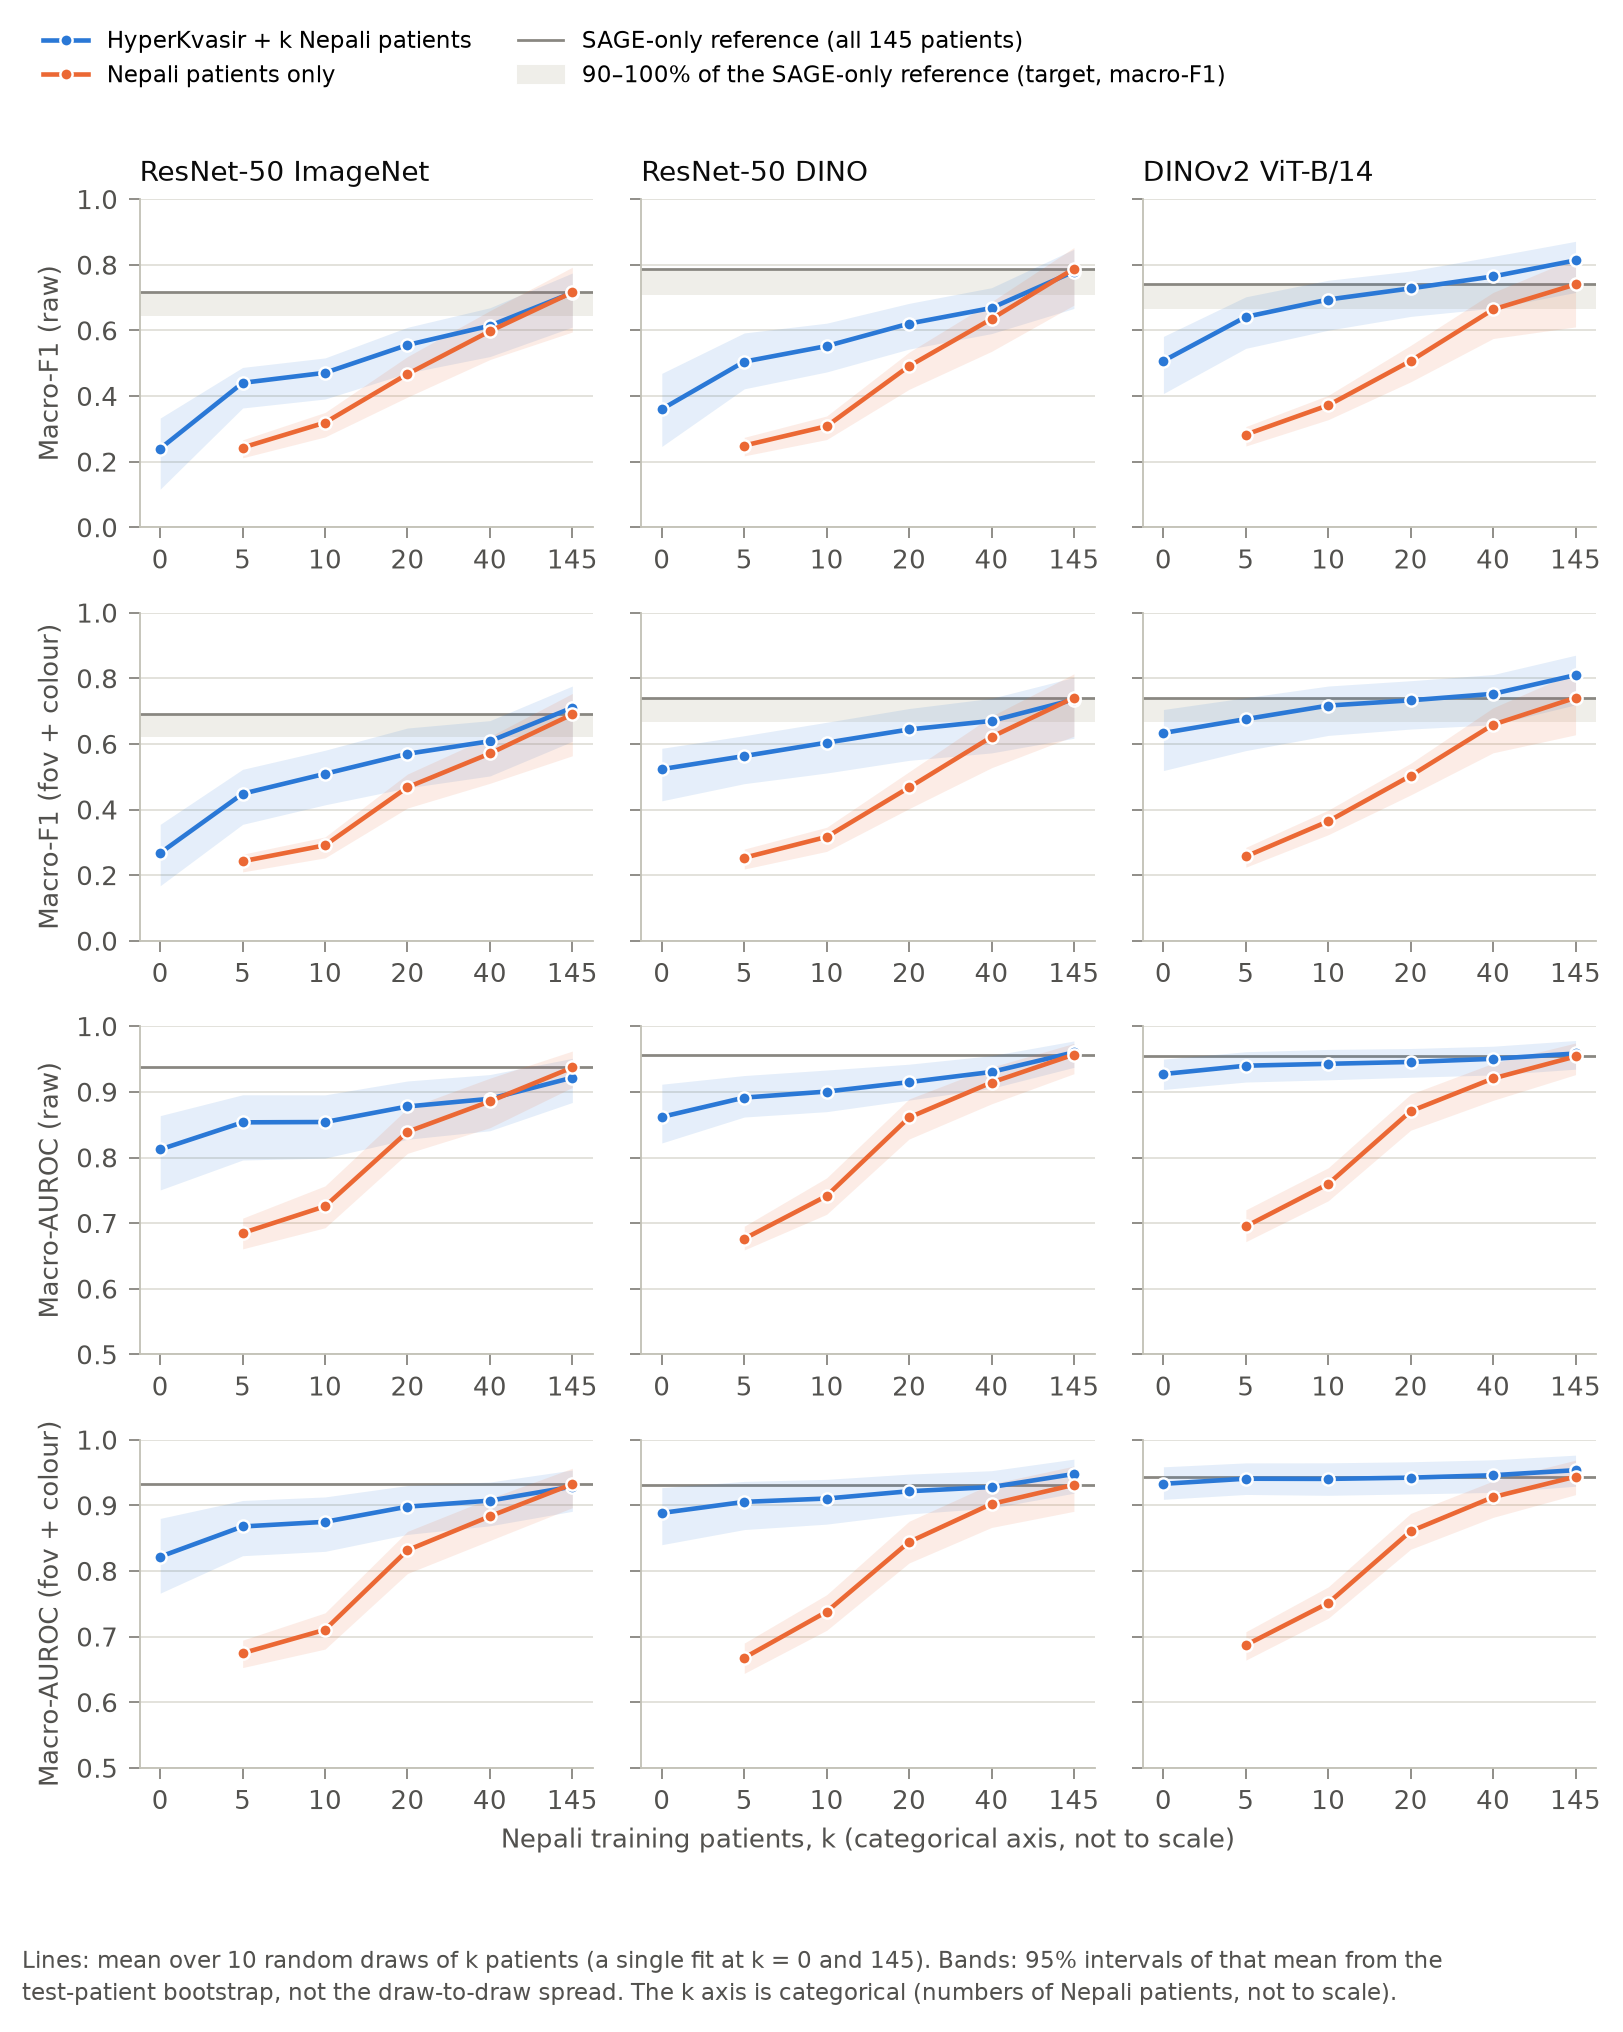
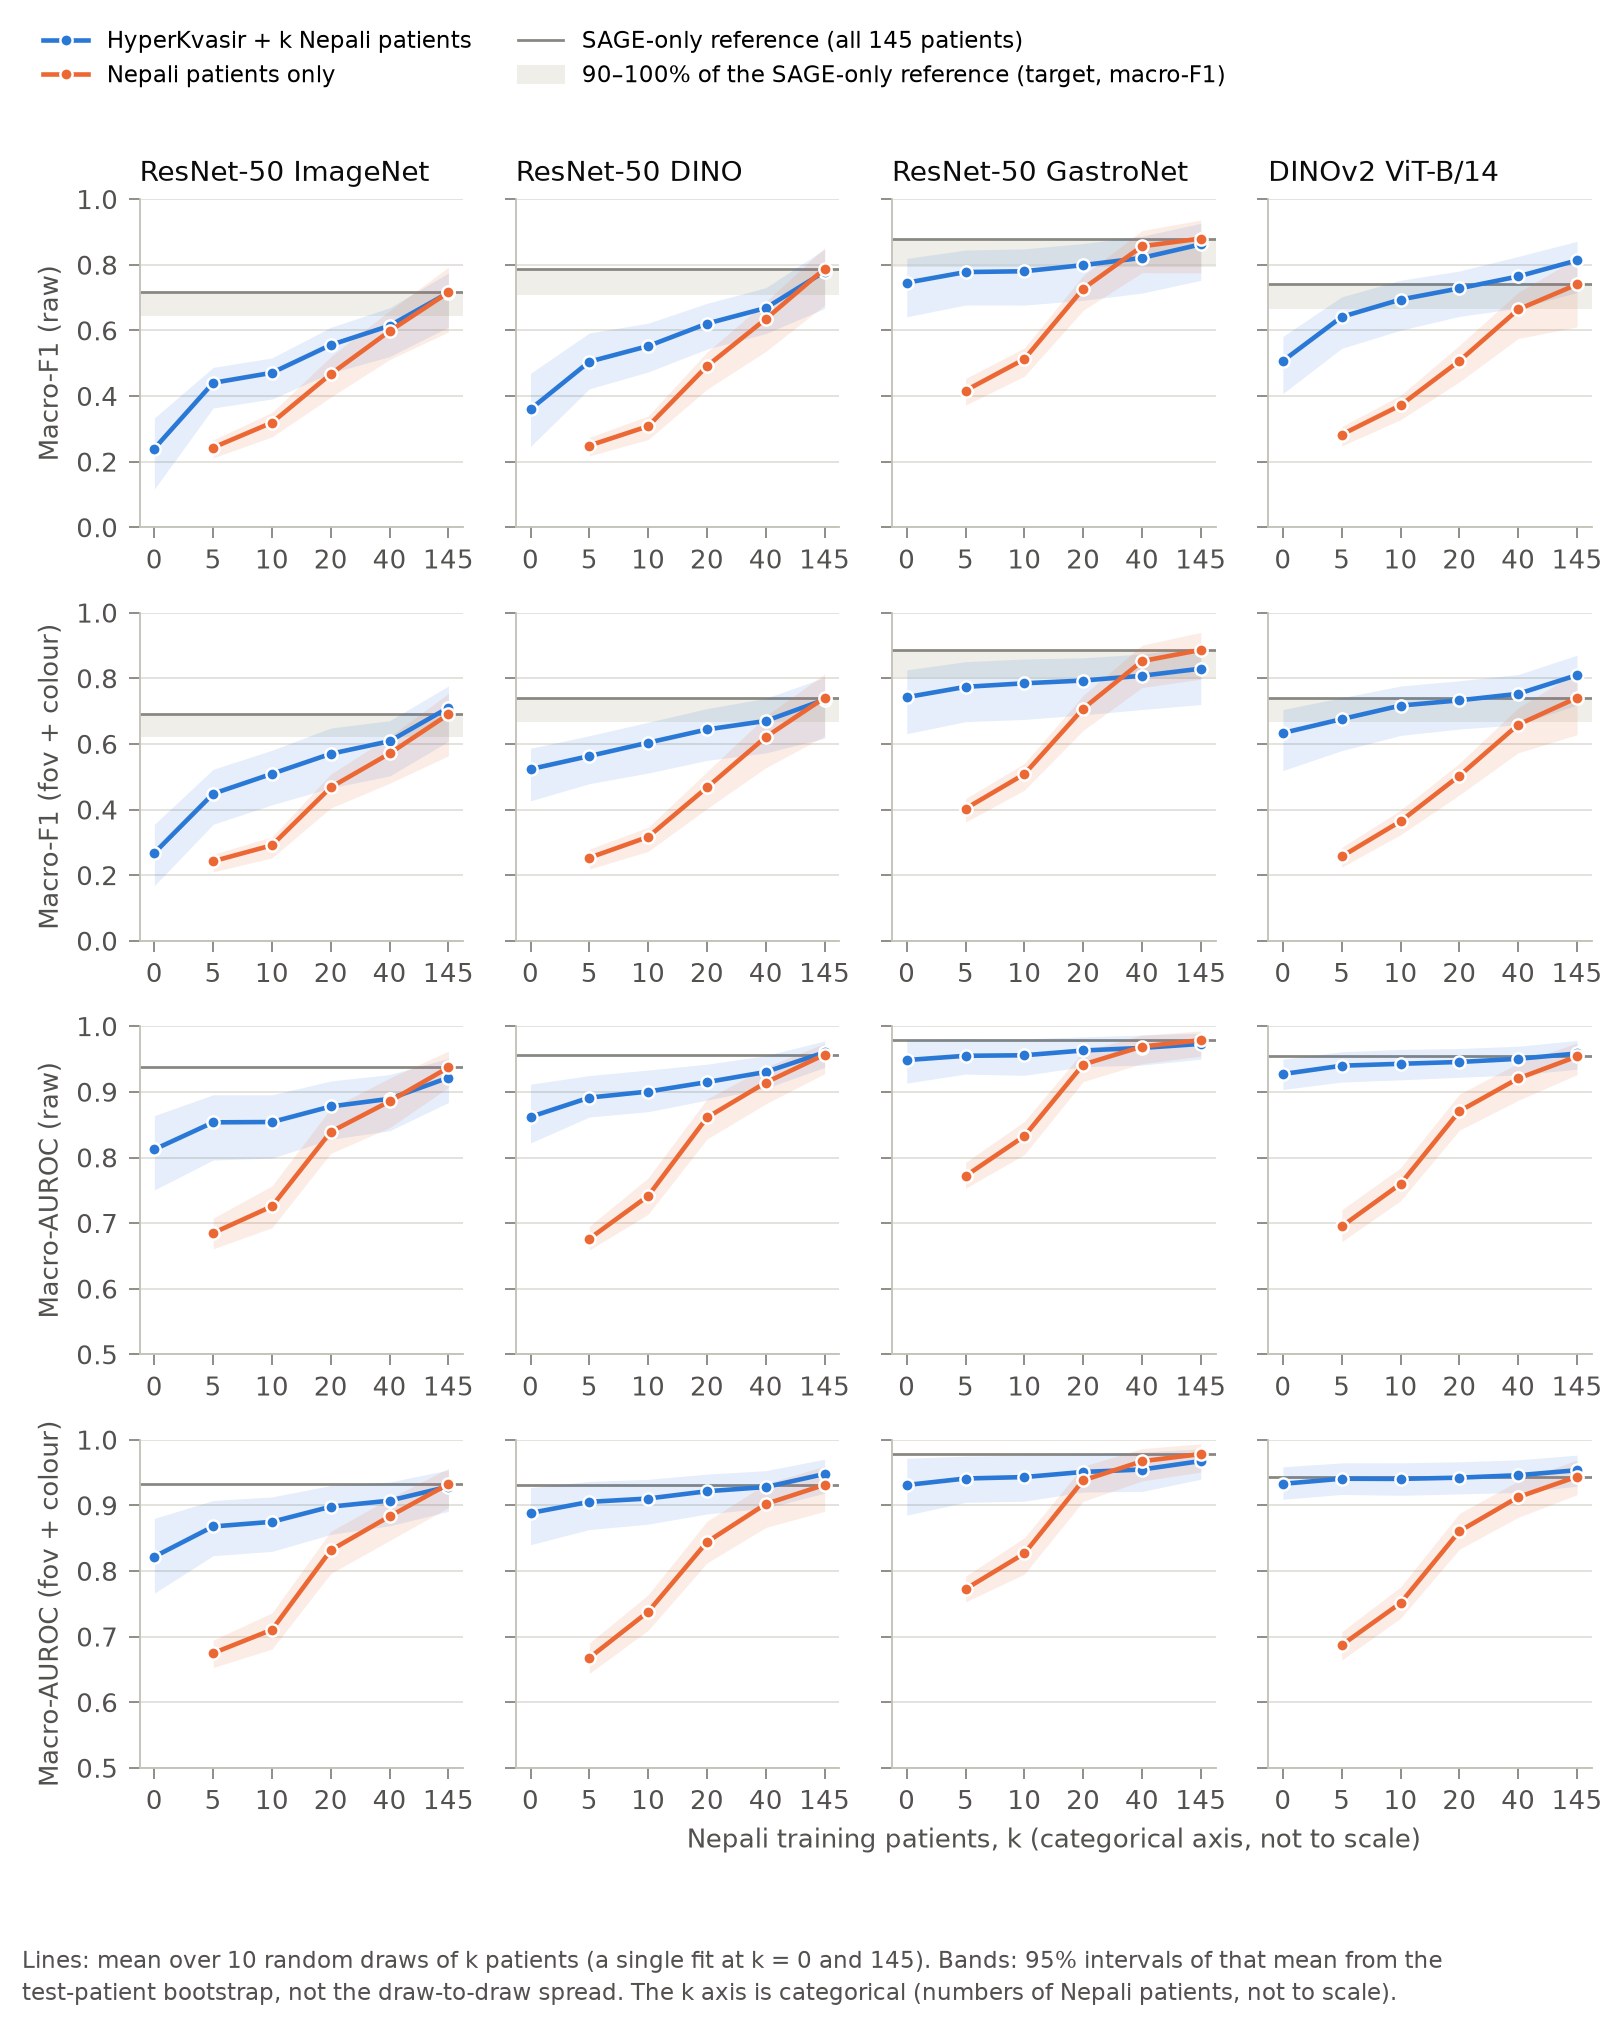
Add the in-domain backbone results

diff --git a/scripts/11_figures.py b/scripts/11_figures.py
@@ -41,7 +41,7 @@ from sage_shift.labelspace import MEANING_GROUP, SIX_CLASSES  # noqa: E402
 from sage_shift.outdir import check_out_dir  # noqa: E402
 
 ROOT = Path(__file__).resolve().parents[1]
-SERIES = ["#2a78d6", "#eb6834", "#1baf7a"]  # categorical slots 1-3 (validated all-pairs)
+SERIES = ["#2a78d6", "#eb6834", "#1baf7a", "#f2a600"]  # categorical slots 1-4 (slots 1-3 validated all-pairs; 1-4 adjacent)
 BLUES = ["#fcfcfb", "#cde2fb", "#9ec5f4", "#6da7ec", "#3987e5", "#256abf", "#184f95", "#0d366b"]
 INK, INK_2, MUTED, GRID, AXIS = "#0b0b0b", "#52514e", "#898781", "#e1e0d9", "#c3c2b7"
 BAND = "#efeee9"  # target zone in F3 and diagram boxes, one step off the surface
@@ -50,6 +50,7 @@ SHORT = {"esophagitis": "Esophagitis", "fundus-retroflexion": "Fundus (retrofl.)
 BACKBONE_NAMES = {"resnet50_imagenet": "ResNet-50 ImageNet", "resnet50_dino_imagenet": "ResNet-50 DINO",
                   "resnet50_gastronet_dino": "ResNet-50 GastroNet", "dinov2_vitb14": "DINOv2 ViT-B/14"}
 REFERENCE = "SAGE-only reference"  # the SAGE-trained probe (files and columns call it the ceiling)
+SLOT = {"resnet50_imagenet": 0, "resnet50_dino_imagenet": 1, "dinov2_vitb14": 2, "resnet50_gastronet_dino": 3}  # colour follows the backbone
 FOV_TEST_TIME = "Exploratory: test-time field crop of SAGE"
 INPUTS = {"raw": "raw frame", "masked": "masked\n(border blacked out,\nnot cropped)", "fov": "test-time\nfield crop"}
 AUROC_COLUMNS = ["backbone", "variant", "regime", "k", "auroc_mean", "ci_low", "ci_high", "draws"]
@@ -180,17 +181,18 @@ def f2_class_gaps(table: pd.DataFrame, test: pd.DataFrame, out_dir: Path) -> Non
     gaps = table[(table["section"] == "meaning_groups") & (table["row"] == "raw") & table["metric"].str.startswith("f1_gap_")]
     order = [c for c in SIX_CLASSES if MEANING_GROUP[c] == "shifted"] + [c for c in SIX_CLASSES if MEANING_GROUP[c] == "matched"]
     n_images, n_patients = test["class"].value_counts(), test.groupby("class")["patient_group"].nunique()
-    backbones = [b for b in BACKBONE_NAMES if b in set(gaps["model"])]
+    backbones = sorted((b for b in BACKBONE_NAMES if b in set(gaps["model"])), key=SLOT.get)  # drawn in colour-slot order
     fig, ax = plt.subplots(figsize=(6.4, 4.6))
     offsets = np.linspace(-0.22, 0.22, len(backbones))
-    for b, (backbone, offset) in enumerate(zip(backbones, offsets)):
+    for backbone, offset in zip(backbones, offsets):
+        colour = SERIES[SLOT[backbone]]
         part = gaps[gaps["model"] == backbone].set_index("metric")
         ys = np.arange(len(order)) + offset
         est = [part.loc[f"f1_gap_{c}", "estimate"] for c in order]
         low = [part.loc[f"f1_gap_{c}", "ci_low"] for c in order]
         high = [part.loc[f"f1_gap_{c}", "ci_high"] for c in order]
-        ax.hlines(ys, low, high, color=SERIES[b], linewidth=1.4)
-        ax.plot(est, ys, "o", color=SERIES[b], markersize=5, markeredgecolor="white", markeredgewidth=1.0,
+        ax.hlines(ys, low, high, color=colour, linewidth=1.4)
+        ax.plot(est, ys, "o", color=colour, markersize=5, markeredgecolor="white", markeredgewidth=1.0,
                 label=BACKBONE_NAMES[backbone])
     ax.axvline(0, color=AXIS, linewidth=0.8)
     n_shifted = sum(MEANING_GROUP[c] == "shifted" for c in order)
@@ -202,7 +204,7 @@ def f2_class_gaps(table: pd.DataFrame, test: pd.DataFrame, out_dir: Path) -> Non
     ax.grid(axis="x")
     ax.set_axisbelow(True)
     ax.set_xlabel(f"{REFERENCE} − transfer (F1)")
-    ax.legend(loc="lower left", bbox_to_anchor=(0.0, 1.01), ncol=len(backbones), fontsize=7.5, handletextpad=0.3,
+    ax.legend(loc="lower left", bbox_to_anchor=(0.0, 1.01), ncol=len(backbones) if len(backbones) <= 3 else 2, fontsize=7.5, handletextpad=0.3,
               borderaxespad=0)
     fig.suptitle("Descriptive: per-class transfer gap on raw frames, by meaning group", x=0.01, ha="left",
                  fontsize=9.5, color=INK)

diff --git a/README.md b/README.md
@@ -46,27 +46,29 @@ All scores are on the SAGE six-class test set: 158 images from 62 patients. Inte
 </p>
 <p align="center"><em>Figure 1. Re-trained adjusted models (three seeds) under geometry controls. Left: SAGE test inputs. Every input with a margin around the field crosses the 80% collapse threshold, and the field crops do not. Right: HyperKvasir fold-1 upper-GI frames, as originally framed and placed into SAGE's layout.</em></p>
 
-**3. A fair gap remains for frozen features, and it is smaller with foundation models.** Macro-F1:
+**3. A fair gap remains for frozen features; it is smallest with in-domain pretraining.** Macro-F1:
 
 | Backbone (frozen) | Transfer: HyperKvasir → SAGE | SAGE-only reference | Gap, raw frames | Gap, field crop |
 |---|---:|---:|---:|---:|
 | ResNet-50 (ImageNet) | 0.240 | 0.716 | 0.476 [0.311, 0.641] | 0.397 [0.241, 0.520] |
 | ResNet-50 (DINO) | 0.360 | 0.788 | 0.428 [0.247, 0.554] | 0.281 [0.160, 0.378] |
 | DINOv2 ViT-B/14 | 0.507 | 0.740 | 0.233 [0.092, 0.353] | 0.118 [0.018, 0.208] |
+| ResNet-50 (DINO, GastroNet-5M endoscopy images) | 0.746 | 0.880 | 0.135 [0.045, 0.212] | 0.148 [0.043, 0.241] |
 
-<sub>For context: the best constant predictor scores 0.088. HyperKvasir in-domain macro-F1 is 0.92–0.93, but that figure is optimistic, because HyperKvasir has no patient identifiers and its split is image-level.</sub>
+<sub>For context: the best constant predictor scores 0.088. HyperKvasir in-domain macro-F1 is 0.92–0.95, but that figure is optimistic, because HyperKvasir has no patient identifiers and its split is image-level.</sub>
 
-- **Field crop.** It reduces the gap more than colour normalisation does, for every backbone (estimated reduction 0.08–0.15).
+- **Field crop.** For the three general-purpose backbones it reduces the gap more than colour normalisation does (estimated reduction 0.08–0.15). For the in-domain backbone neither intervention changes the gap (−0.013 and −0.008), and its predictions are not polyp-heavy even on raw frames.
 - **Colour.** Per-image colour normalisation shows no detectable change, and neither does a dataset-level colour map.
-- **Class priors.** EM prior correction widens the gap. Even the true SAGE class priors do not materially improve macro-F1 (−0.057 to +0.003).
+- **Class priors.** EM prior correction widens the gap. Even the true SAGE class priors do not materially improve macro-F1 (−0.057 to +0.010).
 
 **4. A few Nepali patients go a long way.**
 - With HyperKvasir data, a DINOv2 probe reaches 90% of the SAGE-only reference with 10–20 Nepali patients (5–10 on cropped, colour-normalised frames).
 - At five patients it leads a Nepali-only probe by +0.36 [0.28, 0.42] (exploratory interval).
-- Most of that gain is an operating-point correction: refitting only the six class intercepts recovers 65–132% of it (exploratory).
+- For the general-purpose backbones most of that gain is an operating-point correction: refitting only the six class intercepts recovers 65–132% of it (exploratory).
+- With in-domain GastroNet-5M features, HyperKvasir data alone give 0.746 on SAGE, and 20 Nepali patients reach 90% of that backbone's higher SAGE-only reference (0.880).
 
 <p align="center">
-  <img src="figures/f3_label_efficiency.png" width="640" alt="Macro-F1 and macro-AUROC against the number of Nepali training patients, with and without HyperKvasir, for three backbones">
+  <img src="figures/f3_label_efficiency.png" width="640" alt="Macro-F1 and macro-AUROC against the number of Nepali training patients, with and without HyperKvasir, for four backbones">
 </p>
 <p align="center"><em>Figure 2. Label efficiency (RQ3). HyperKvasir + k Nepali patients (blue) against Nepali patients only (orange). Lines are means over 10 patient draws, bands are 95% test-patient bootstrap intervals, and the grey band is 90–100% of the SAGE-only reference.</em></p>
 
@@ -75,14 +77,15 @@ All scores are on the SAGE six-class test set: 158 images from 62 patients. Inte
 | | Hypothesis | Verdict |
 |---|---|---|
 | H1 | The released recipe gives near-constant predictions on SAGE | **Supported** (three seeds) |
-| H2 | HyperKvasir probes beat constant predictors, yet a gap to the SAGE-only reference remains | **Supported** in 12/12 backbone × variant cells (two cells are not robust to patient weighting) |
+| H2 | HyperKvasir probes beat constant predictors, yet a gap to the SAGE-only reference remains | **Supported** in 16/16 backbone × variant cells (three cells are not robust to patient weighting) |
 | H3 | The gap is larger for classes whose definitions differ (polyp, pylorus) | Not supported (under-powered) |
-| H4 | The field crop and colour normalisation each shrink the gap for the ImageNet ResNet-50 | Not supported (under-powered); the in-domain comparison was not tested |
-| H5 | With HyperKvasir data, ≤ 20 Nepali patients reach 90% of the SAGE-only reference | **Supported** (DINOv2) |
+| H4 | The field crop and colour normalisation each shrink the gap for the ImageNet ResNet-50 | Not supported (under-powered). Its in-domain clause holds: neither intervention reduces the gap for the in-domain backbone |
+| H5 | With HyperKvasir data, ≤ 20 Nepali patients reach 90% of the SAGE-only reference | **Supported** (DINOv2; in-domain ResNet-50 on raw frames) |
 
 **Interpretation.**
 - On these curated single-hospital images, the collapse follows the frame layout, which is a pipeline property.
 - The gap that remains after the crop (0.12–0.40) is a site effect whose cause is unresolved. With one Nepali hospital, population differences cannot be separated from other site differences.
+- In-domain pretraining on European endoscopy images (GastroNet-5M, Dutch hospitals) narrows the gap most: 0.135 on raw frames, with no pipeline intervention.
 
 ---
 
@@ -110,7 +113,8 @@ The shared label space has six classes: esophagitis, fundus-retroflexion, polyp,
 - **Frozen backbones:**
   - ResNet-50 (torchvision, ImageNet-1k V1);
   - ResNet-50 DINO;
-  - DINOv2 ViT-B/14 (class token plus mean patch token, 1,536-d).
+  - DINOv2 ViT-B/14 (class token plus mean patch token, 1,536-d);
+  - ResNet-50 trained with DINO on GastroNet-5M (in-domain; weights under CC BY-NC-ND 4.0 from the GastroNet portal, used frozen and not redistributed).
 - **Probes:** multinomial logistic regression (L2 penalty, class-balanced, standardised features).
   - C ∈ {0.001, …, 10} is chosen on HyperKvasir's official folds for the transfer probe, and by 5-fold patient-grouped cross-validation on SAGE train for the SAGE-only reference.
   - No choice is made on SAGE test results.
@@ -216,6 +220,8 @@ python scripts/16_colour_global_stats.py
 
 # Features and fine-tuning (GPU)
 python scripts/06_extract_features.py --variants raw fov colour fov_colour
+python scripts/06_extract_features.py --backbones resnet50_gastronet_dino --gastronet-weights <RN50_GastroNet-5M_DINOv1.pth> \
+    --variants raw fov colour fov_colour
 python scripts/06_extract_features.py --datasets sage --colour-global outputs/preprocess/colour_global_sage.json \
     --variants masked masked_grey letterbox letterbox_grey fov_grey colour_global fov_colour_global
 python scripts/06_extract_features.py --datasets hk --variants sageify sageify_grey
@@ -287,9 +293,10 @@ If you use this code, please cite the thesis and both datasets.
 }
 ```
 
-**Methods used.** The backbones come from three papers:
+**Methods used.** The backbones come from these papers:
 - ResNet: He et al., CVPR 2016.
 - DINO: Caron et al., ICCV 2021.
 - DINOv2: Oquab et al., TMLR 2024.
+- GastroNet-5M: Jong et al., *Gastroenterology* 2026; ResNet-50 pretraining on it: Boers et al., *Medical Image Analysis* 2024.
 
 The colour normalisation follows Reinhard et al., *IEEE Computer Graphics and Applications*, 2001. The SAGE dataset code is at <https://github.com/bhattarailab/SAGE>.
